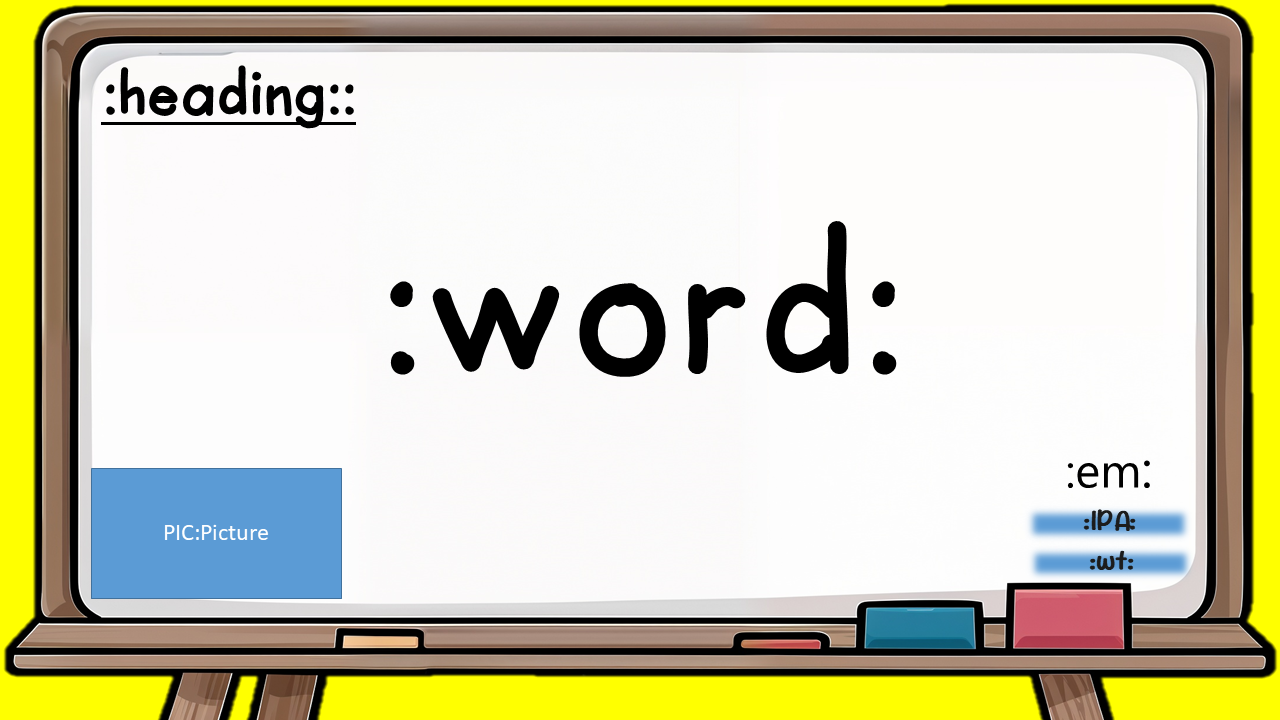
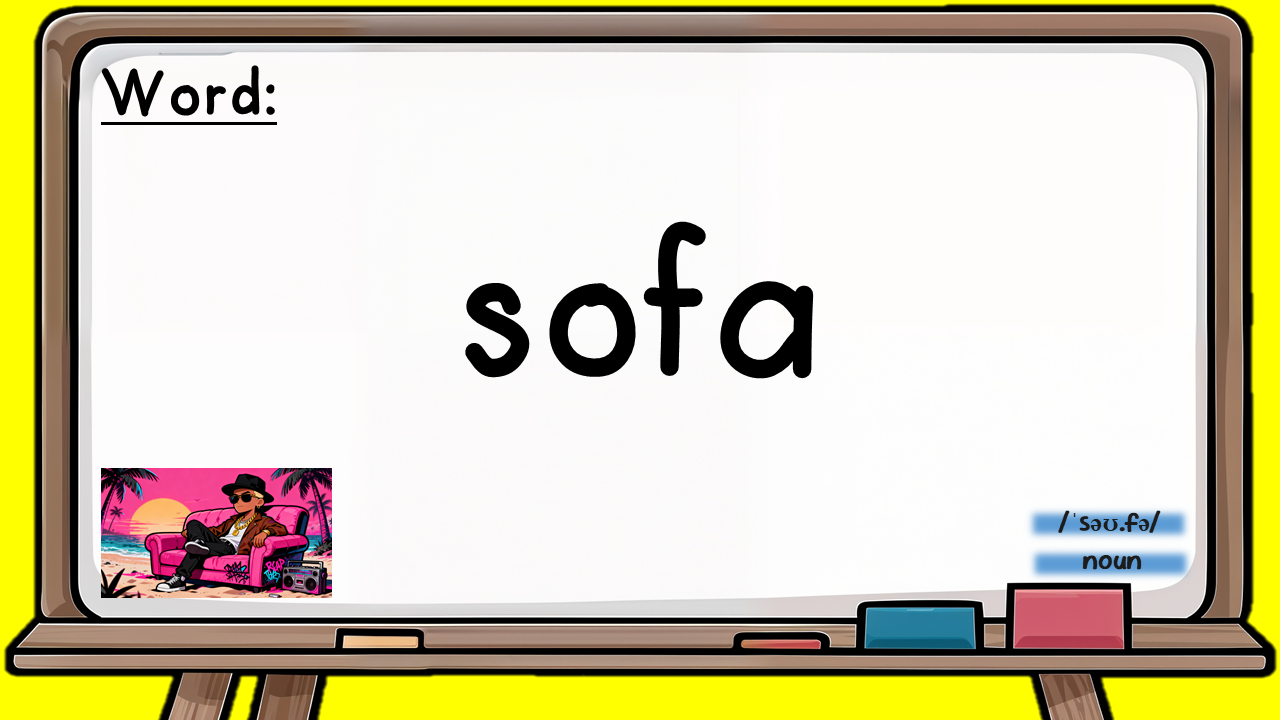
Update Schwa page: new slides from correct PPTX, single video, lowercase examples
- Replaced single template slide with all 104 slides from Schwas Visuals123.pptx
- Slides organised by word group: sofa, panda, alarm, police, cabbage, carpet, maggot, salad, the, vowels, syllable stress, summary
- Removed second (SHORTs) video — single video only
- Fixed examples to use lowercase vowel labels (e says "uh" not E says "uh")

diff --git a/schwa.html b/schwa.html
@@ -88,7 +88,7 @@
     }
 
     main {
-      max-width: 900px;
+      max-width: 960px;
       margin: 0 auto;
       padding: 40px 20px 60px;
     }
@@ -123,24 +123,6 @@
       position: absolute;
       top: 0; left: 0;
       width: 100%; height: 100%;
-    }
-
-    /* TWO VIDEO GRID */
-    .video-grid {
-      display: grid;
-      grid-template-columns: repeat(auto-fill, minmax(380px, 1fr));
-      gap: 20px;
-    }
-
-    .video-grid .video-wrap {
-      box-shadow: 4px 4px 0 #1a1a1a;
-    }
-
-    .video-label {
-      font-weight: 900;
-      font-size: 0.88rem;
-      padding: 8px 0 0;
-      color: #374151;
     }
 
     /* EXPLAINER BOX */
@@ -227,28 +209,6 @@
       line-height: 1.6;
     }
 
-    /* WORD CARD VISUAL */
-    .slide-single {
-      background: #fff;
-      border: 3px solid #1a1a1a;
-      border-radius: 12px;
-      overflow: hidden;
-      box-shadow: 5px 5px 0 #1a1a1a;
-    }
-
-    .slide-single img {
-      width: 100%;
-      display: block;
-    }
-
-    .slide-single .slide-label {
-      font-weight: 900;
-      font-size: 0.88rem;
-      padding: 8px 14px;
-      background: #1a1a1a;
-      color: #facc15;
-    }
-
     /* STRATEGY BOX */
     .strategy-box {
       background: #1a1a1a;
@@ -297,27 +257,42 @@
       border: 2px solid #facc15;
     }
 
-    /* POWERPOINT BTN */
-    .download-btn {
-      display: inline-flex;
-      align-items: center;
-      gap: 10px;
-      font-family: 'Bangers', cursive;
-      font-size: 1.2rem;
-      letter-spacing: 1px;
-      background: #1a1a1a;
-      color: #facc15;
-      text-decoration: none;
-      padding: 12px 28px;
-      border-radius: 999px;
-      border: 3px solid #1a1a1a;
-      box-shadow: 4px 4px 0 #ef4444;
-      transition: transform 0.1s, box-shadow 0.1s;
+    /* SLIDES */
+    .word-group {
+      margin-bottom: 44px;
     }
 
-    .download-btn:hover {
-      transform: translate(-2px, -2px);
-      box-shadow: 6px 6px 0 #ef4444;
+    .word-group-title {
+      font-family: 'Bangers', cursive;
+      font-size: 1.5rem;
+      letter-spacing: 2px;
+      color: #1a1a1a;
+      background: #facc15;
+      border: 3px solid #1a1a1a;
+      border-radius: 8px;
+      padding: 6px 18px;
+      display: inline-block;
+      margin-bottom: 14px;
+      box-shadow: 3px 3px 0 #1a1a1a;
+    }
+
+    .slides-grid {
+      display: grid;
+      grid-template-columns: repeat(auto-fill, minmax(260px, 1fr));
+      gap: 14px;
+    }
+
+    .slide-card {
+      background: #fff;
+      border: 3px solid #1a1a1a;
+      border-radius: 10px;
+      overflow: hidden;
+      box-shadow: 4px 4px 0 #1a1a1a;
+    }
+
+    .slide-card img {
+      width: 100%;
+      display: block;
     }
 
     footer {
@@ -340,32 +315,21 @@
   </header>
 
   <nav class="cat-nav">
-    <a href="#videos">Videos</a>
+    <a href="#video">Video</a>
     <a href="#what-is-schwa">What Is Schwa?</a>
     <a href="#which-vowels">Which Vowels?</a>
     <a href="#examples">Examples</a>
     <a href="#strategy">Spelling Strategy</a>
-    <a href="#word-cards">Word Cards</a>
+    <a href="#slides">Slide Deck</a>
   </nav>
 
   <main>
 
-    <!-- VIDEOS -->
-    <section class="content-section" id="videos">
-      <h2 class="section-heading">Watch the Videos</h2>
-      <div class="video-grid">
-        <div>
-          <div class="video-wrap">
-            <iframe src="https://www.youtube.com/embed/aEpy3UR20mU" title="The Schwa Phonics Song" frameborder="0" allow="accelerometer; autoplay; clipboard-write; encrypted-media; gyroscope; picture-in-picture" allowfullscreen></iframe>
-          </div>
-          <p class="video-label">The Schwa Phonics Song /&#x259;/ — Sound Out the Most Common Vowel Sound in English</p>
-        </div>
-        <div>
-          <div class="video-wrap">
-            <iframe src="https://www.youtube.com/embed/VjIkSI-KJnY" title="The Schwa — The Most Common Sound in English" frameborder="0" allow="accelerometer; autoplay; clipboard-write; encrypted-media; gyroscope; picture-in-picture" allowfullscreen></iframe>
-          </div>
-          <p class="video-label">The Schwa — The Most Common Sound in English</p>
-        </div>
+    <!-- VIDEO -->
+    <section class="content-section" id="video">
+      <h2 class="section-heading">Watch the Video</h2>
+      <div class="video-wrap">
+        <iframe src="https://www.youtube.com/embed/aEpy3UR20mU" title="The Schwa Phonics Song" frameborder="0" allow="accelerometer; autoplay; clipboard-write; encrypted-media; gyroscope; picture-in-picture" allowfullscreen></iframe>
       </div>
     </section>
 
@@ -373,7 +337,7 @@
     <section class="content-section" id="what-is-schwa">
       <h2 class="section-heading">What Is the Schwa?</h2>
       <div class="explainer-box">
-        <p>The schwa (symbol: <strong>/&#x259;/</strong>) is the most common sound in the English language. It is a short, unstressed "uh" sound that appears in the unstressed syllables of multisyllabic words. The tricky thing about the schwa is that <strong>any vowel letter can make it</strong> — A, E, I, O, and U can all say "uh" when they are in an unstressed syllable. This is why words like <em>butter</em>, <em>second</em>, <em>depend</em>, and <em>eleven</em> are so commonly misspelled — the schwa vowel is almost impossible to hear clearly when you say the word naturally. Knowing about the schwa is a powerful spelling tool because it explains why so many vowels in multisyllabic words are hard to predict.</p>
+        <p>The schwa (symbol: <strong>/&#x259;/</strong>) is the most common sound in the English language. It is a short, unstressed "uh" sound that appears in the unstressed syllables of multisyllabic words. The tricky thing about the schwa is that <strong>any vowel letter can make it</strong> — a, e, i, o, and u can all say "uh" when they are in an unstressed syllable. This is why words like <em>butter</em>, <em>second</em>, <em>depend</em>, and <em>eleven</em> are so commonly misspelled — the schwa vowel is almost impossible to hear clearly when you say the word naturally. Knowing about the schwa is a powerful spelling tool because it explains why so many vowels in multisyllabic words are hard to predict.</p>
       </div>
     </section>
 
@@ -411,42 +375,42 @@
         <div class="example-card">
           <span class="ex-word">butter</span>
           <span class="ex-break">but · t<u>er</u></span>
-          <span class="ex-schwa">E says "uh"</span>
+          <span class="ex-schwa">e says "uh"</span>
         </div>
         <div class="example-card">
           <span class="ex-word">second</span>
           <span class="ex-break">sec · <u>o</u>nd</span>
-          <span class="ex-schwa">O says "uh"</span>
+          <span class="ex-schwa">o says "uh"</span>
         </div>
         <div class="example-card">
           <span class="ex-word">depend</span>
           <span class="ex-break"><u>de</u> · pend</span>
-          <span class="ex-schwa">E says "uh"</span>
+          <span class="ex-schwa">e says "uh"</span>
         </div>
         <div class="example-card">
           <span class="ex-word">eleven</span>
           <span class="ex-break"><u>e</u> · lev · <u>e</u>n</span>
-          <span class="ex-schwa">Both E's say "uh"</span>
+          <span class="ex-schwa">both e's say "uh"</span>
         </div>
         <div class="example-card">
           <span class="ex-word">about</span>
           <span class="ex-break"><u>a</u> · bout</span>
-          <span class="ex-schwa">A says "uh"</span>
+          <span class="ex-schwa">a says "uh"</span>
         </div>
         <div class="example-card">
           <span class="ex-word">doctor</span>
           <span class="ex-break">doc · t<u>or</u></span>
-          <span class="ex-schwa">O says "uh"</span>
+          <span class="ex-schwa">o says "uh"</span>
         </div>
         <div class="example-card">
           <span class="ex-word">pencil</span>
           <span class="ex-break">pen · c<u>i</u>l</span>
-          <span class="ex-schwa">I says "uh"</span>
+          <span class="ex-schwa">i says "uh"</span>
         </div>
         <div class="example-card">
           <span class="ex-word">support</span>
           <span class="ex-break">s<u>u</u>p · port</span>
-          <span class="ex-schwa">U says "uh"</span>
+          <span class="ex-schwa">u says "uh"</span>
         </div>
       </div>
     </section>
@@ -466,13 +430,130 @@
       </div>
     </section>
 
-    <!-- WORD CARDS -->
-    <section class="content-section" id="word-cards">
+    <!-- SLIDE DECK -->
+    <section class="content-section" id="slides">
       <h2 class="section-heading">Schwa Word Cards</h2>
-      <div class="slide-single">
-        <img src="slides/schwa/slide001.png" alt="Schwa word card template by Mr Spelling" />
-        <div class="slide-label">Mr Spelling Schwa Word Card Template</div>
+
+      <div class="word-group">
+        <div class="word-group-title">sofa</div>
+        <div class="slides-grid">
+          <div class="slide-card"><img src="slides/schwa/slide001.png" alt="sofa - word" loading="lazy" /></div>
+          <div class="slide-card"><img src="slides/schwa/slide002.png" alt="sofa - stress" loading="lazy" /></div>
+          <div class="slide-card"><img src="slides/schwa/slide005.png" alt="sofa - sounds" loading="lazy" /></div>
+          <div class="slide-card"><img src="slides/schwa/slide009.png" alt="sofa - schwa" loading="lazy" /></div>
+        </div>
       </div>
+
+      <div class="word-group">
+        <div class="word-group-title">panda</div>
+        <div class="slides-grid">
+          <div class="slide-card"><img src="slides/schwa/slide010.png" alt="panda - word" loading="lazy" /></div>
+          <div class="slide-card"><img src="slides/schwa/slide011.png" alt="panda - stress" loading="lazy" /></div>
+          <div class="slide-card"><img src="slides/schwa/slide013.png" alt="panda - sounds" loading="lazy" /></div>
+          <div class="slide-card"><img src="slides/schwa/slide018.png" alt="panda - schwa" loading="lazy" /></div>
+        </div>
+      </div>
+
+      <div class="word-group">
+        <div class="word-group-title">alarm</div>
+        <div class="slides-grid">
+          <div class="slide-card"><img src="slides/schwa/slide019.png" alt="alarm - word" loading="lazy" /></div>
+          <div class="slide-card"><img src="slides/schwa/slide020.png" alt="alarm - stress" loading="lazy" /></div>
+          <div class="slide-card"><img src="slides/schwa/slide023.png" alt="alarm - sounds" loading="lazy" /></div>
+          <div class="slide-card"><img src="slides/schwa/slide027.png" alt="alarm - schwa" loading="lazy" /></div>
+        </div>
+      </div>
+
+      <div class="word-group">
+        <div class="word-group-title">police</div>
+        <div class="slides-grid">
+          <div class="slide-card"><img src="slides/schwa/slide028.png" alt="police - word" loading="lazy" /></div>
+          <div class="slide-card"><img src="slides/schwa/slide029.png" alt="police - stress" loading="lazy" /></div>
+          <div class="slide-card"><img src="slides/schwa/slide032.png" alt="police - sounds" loading="lazy" /></div>
+          <div class="slide-card"><img src="slides/schwa/slide038.png" alt="police - schwa" loading="lazy" /></div>
+        </div>
+      </div>
+
+      <div class="word-group">
+        <div class="word-group-title">cabbage</div>
+        <div class="slides-grid">
+          <div class="slide-card"><img src="slides/schwa/slide039.png" alt="cabbage - word" loading="lazy" /></div>
+          <div class="slide-card"><img src="slides/schwa/slide040.png" alt="cabbage - stress" loading="lazy" /></div>
+          <div class="slide-card"><img src="slides/schwa/slide043.png" alt="cabbage - sounds" loading="lazy" /></div>
+          <div class="slide-card"><img src="slides/schwa/slide048.png" alt="cabbage - schwa" loading="lazy" /></div>
+        </div>
+      </div>
+
+      <div class="word-group">
+        <div class="word-group-title">carpet</div>
+        <div class="slides-grid">
+          <div class="slide-card"><img src="slides/schwa/slide049.png" alt="carpet - word" loading="lazy" /></div>
+          <div class="slide-card"><img src="slides/schwa/slide050.png" alt="carpet - stress" loading="lazy" /></div>
+          <div class="slide-card"><img src="slides/schwa/slide053.png" alt="carpet - sounds" loading="lazy" /></div>
+          <div class="slide-card"><img src="slides/schwa/slide058.png" alt="carpet - schwa" loading="lazy" /></div>
+        </div>
+      </div>
+
+      <div class="word-group">
+        <div class="word-group-title">maggot</div>
+        <div class="slides-grid">
+          <div class="slide-card"><img src="slides/schwa/slide059.png" alt="maggot - word" loading="lazy" /></div>
+          <div class="slide-card"><img src="slides/schwa/slide060.png" alt="maggot - stress" loading="lazy" /></div>
+          <div class="slide-card"><img src="slides/schwa/slide063.png" alt="maggot - sounds" loading="lazy" /></div>
+          <div class="slide-card"><img src="slides/schwa/slide068.png" alt="maggot - schwa" loading="lazy" /></div>
+        </div>
+      </div>
+
+      <div class="word-group">
+        <div class="word-group-title">salad</div>
+        <div class="slides-grid">
+          <div class="slide-card"><img src="slides/schwa/slide069.png" alt="salad - word" loading="lazy" /></div>
+          <div class="slide-card"><img src="slides/schwa/slide070.png" alt="salad - stress" loading="lazy" /></div>
+          <div class="slide-card"><img src="slides/schwa/slide073.png" alt="salad - sounds" loading="lazy" /></div>
+          <div class="slide-card"><img src="slides/schwa/slide078.png" alt="salad - schwa" loading="lazy" /></div>
+        </div>
+      </div>
+
+      <div class="word-group">
+        <div class="word-group-title">the</div>
+        <div class="slides-grid">
+          <div class="slide-card"><img src="slides/schwa/slide079.png" alt="the - word" loading="lazy" /></div>
+          <div class="slide-card"><img src="slides/schwa/slide080.png" alt="the - stress" loading="lazy" /></div>
+          <div class="slide-card"><img src="slides/schwa/slide082.png" alt="the - sounds" loading="lazy" /></div>
+          <div class="slide-card"><img src="slides/schwa/slide084.png" alt="the - schwa" loading="lazy" /></div>
+        </div>
+      </div>
+
+      <div class="word-group">
+        <div class="word-group-title">vowels</div>
+        <div class="slides-grid">
+          <div class="slide-card"><img src="slides/schwa/slide085.png" alt="vowels" loading="lazy" /></div>
+          <div class="slide-card"><img src="slides/schwa/slide086.png" alt="vowels - a" loading="lazy" /></div>
+          <div class="slide-card"><img src="slides/schwa/slide087.png" alt="vowels - e" loading="lazy" /></div>
+          <div class="slide-card"><img src="slides/schwa/slide088.png" alt="vowels - i" loading="lazy" /></div>
+          <div class="slide-card"><img src="slides/schwa/slide089.png" alt="vowels - o" loading="lazy" /></div>
+          <div class="slide-card"><img src="slides/schwa/slide090.png" alt="vowels - u" loading="lazy" /></div>
+          <div class="slide-card"><img src="slides/schwa/slide091.png" alt="vowels - y" loading="lazy" /></div>
+        </div>
+      </div>
+
+      <div class="word-group">
+        <div class="word-group-title">syllable stress</div>
+        <div class="slides-grid">
+          <div class="slide-card"><img src="slides/schwa/slide092.png" alt="syllable stress" loading="lazy" /></div>
+          <div class="slide-card"><img src="slides/schwa/slide093.png" alt="stressed vs unstressed" loading="lazy" /></div>
+          <div class="slide-card"><img src="slides/schwa/slide095.png" alt="schwa in unstressed syllable" loading="lazy" /></div>
+          <div class="slide-card"><img src="slides/schwa/slide098.png" alt="carpet - syllable stress" loading="lazy" /></div>
+        </div>
+      </div>
+
+      <div class="word-group">
+        <div class="word-group-title">summary</div>
+        <div class="slides-grid">
+          <div class="slide-card"><img src="slides/schwa/slide099.png" alt="today we are learning" loading="lazy" /></div>
+        </div>
+      </div>
+
     </section>
 
   </main>
